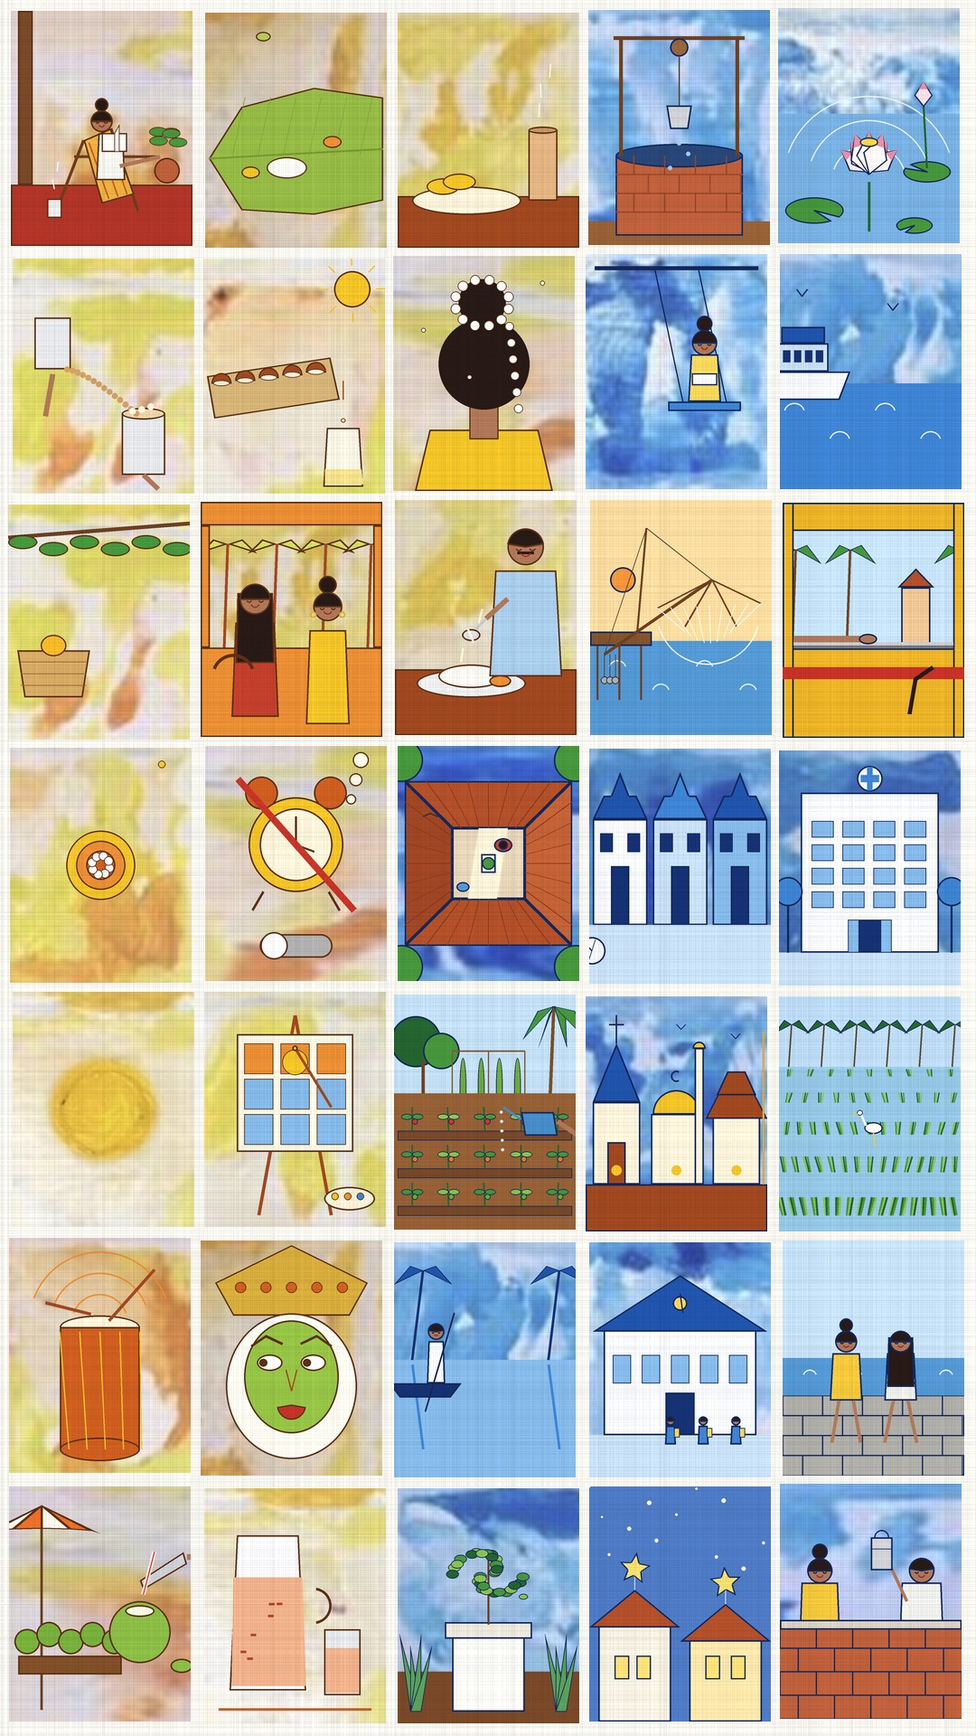
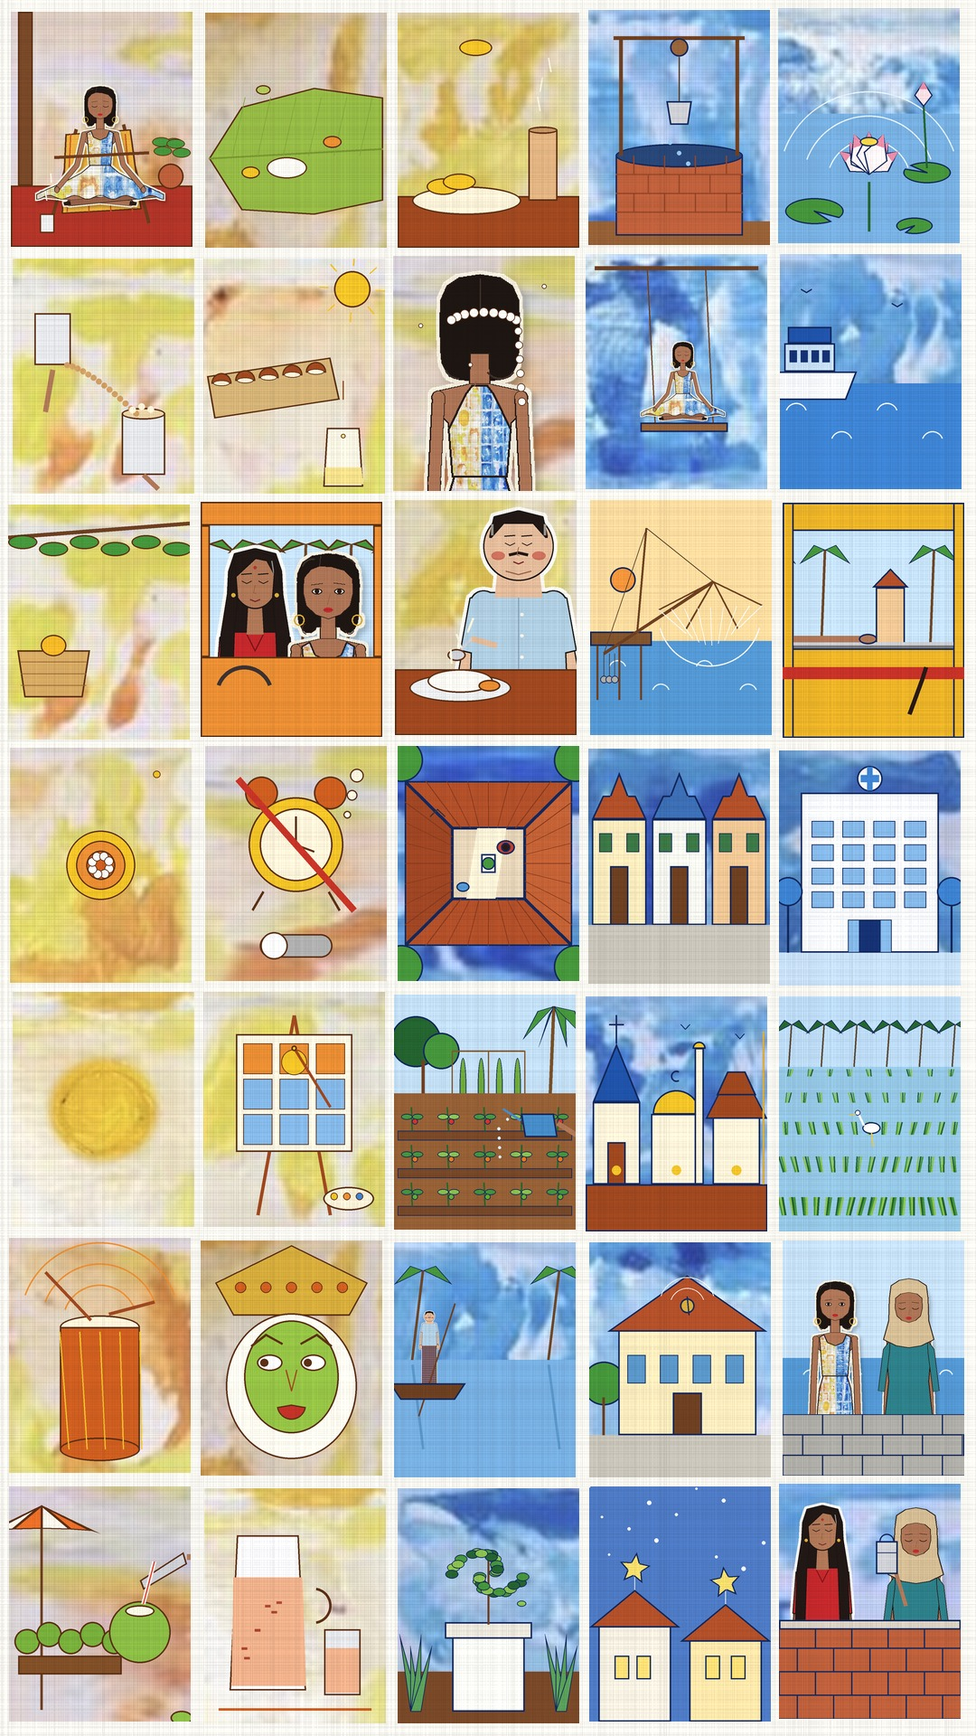
Reel 6: campaign cast in the boxes (approved Mum and Dad, girl with hair down in the Reel 6 racerback linen dress, friend)
Claude-Session: https://claude.ai/code/session_019PesBtHR7CKNsBgSZ5B6oT

diff --git a/reel6/boxwall.py b/reel6/boxwall.py
@@ -74,10 +74,24 @@ class C:
     def A(self, cx, cy, r, a0, a1, col=None, w=4):
         rr = r * BW
         self.d.arc((self.X(cx) - rr, self.Y(cy) - rr, self.X(cx) + rr, self.Y(cy) + rr), a0, a1, fill=col or self.o, width=max(1, int(w * K)))
+    def S(self, name, cx, bottom, height, top_frac=1.0, flip=False, dy_crop=0.0):
+        """Paste a cast sprite: `height` (box heights) is the shown part; top_frac keeps only the top of the figure."""
+        im = SPRITE(name)
+        if top_frac < 1: im = im.crop((0, 0, im.width, int(im.height * top_frac)))
+        sc = height * BH / im.height
+        im = im.resize((max(1, int(im.width * sc)), max(1, int(im.height * sc))), Image.LANCZOS)
+        if flip: im = im.transpose(Image.FLIP_LEFT_RIGHT)
+        self.img.alpha_composite(im, (int(self.X(cx) - im.width / 2), int(self.Y(bottom) - im.height)))
     def PIE(self, cx, cy, r, a0, a1, fill, w=4):
         rr = r * BW
         self.d.pieslice((self.X(cx) - rr, self.Y(cy) - rr, self.X(cx) + rr, self.Y(cy) + rr), a0, a1, fill=fill,
                         outline=self.o if w else None, width=max(1, int(w * K)))
+
+_SPR = {}
+def SPRITE(name):
+    if name not in _SPR: _SPR[name] = Image.open(os.path.join(HERE, "cast", name + ".png")).convert("RGBA")
+    return _SPR[name]
+DADSKIN = (228, 188, 156)
 
 def ease(x): x = min(max(x, 0.0), 1.0); return x * x * (3 - 2 * x)
 def fall(t, t0, y0, y1, dur=0.45):
@@ -110,36 +124,36 @@ def body(c, cx, top, wid, ht, col):
 # ================================================================== WARM boxes
 def v_mum_drive(c, t):
     p = c.p
+    c.R(0, 0, 1, 1, (200, 228, 250), 0)
     for i in range(6):  # palms rushing past
         x = (1.2 - ((t * 0.55 + i * 0.27) % 1.6))
-        c.L([(x, 0.62), (x + 0.02, 0.18)], p["rust"], 7)
-        for a in (-1, 1):
-            c.P([(x + 0.02, 0.18), (x + 0.02 + a * 0.16, 0.22), (x + 0.02 + a * 0.08, 0.16)], p["lime"])
-    c.P([(0, 0), (1, 0), (1, 0.1), (0, 0.1)], p["org"]); c.P([(0, 0.62), (1, 0.62), (1, 1), (0, 1)], p["org"])
-    c.R(0, 0.1, 0.05, 0.62, p["org"]); c.R(0.95, 0.1, 1, 0.62, p["org"])
-    bob = wob(t, 2.2, 0.006)
-    body(c, 0.3, 0.52 + bob, 0.26, 0.4, MUMKURTI); head(c, 0.3, 0.42 + bob, 0.085, "long")
-    body(c, 0.7, 0.54 - bob, 0.24, 0.4, p["yel"]); head(c, 0.7, 0.44 - bob, 0.08, "bun", hoops=True)
-    c.A(0.18, 0.74, 0.12, 200, 340, p["out"], 8)   # steering wheel
+        c.L([(x, 0.62), (x + 0.02, 0.18)], (110, 70, 40), 7)
+        for a in (-1, 1): c.P([(x + 0.02, 0.18), (x + 0.02 + a * 0.16, 0.22), (x + 0.02 + a * 0.08, 0.16)], GREEN)
+    bob = wob(t, 2.2, 0.004)
+    c.S("mum", 0.3, 0.98 + bob, 0.8, top_frac=0.36)
+    c.S("girl_open", 0.72, 0.98 - bob, 0.78, top_frac=0.34)
+    c.P([(0, 0), (1, 0), (1, 0.1), (0, 0.1)], p["org"]); c.P([(0, 0.66), (1, 0.66), (1, 1), (0, 1)], p["org"])
+    c.R(0, 0.1, 0.05, 0.66, p["org"]); c.R(0.95, 0.1, 1, 0.66, p["org"])
+    c.A(0.24, 0.82, 0.16, 200, 340, (60, 50, 50), 10)   # steering wheel
 
 def v_dad_serve(c, t):
     p = c.p
+    c.S("dad_laugh" if (t % 3) > 2.2 else "dad", 0.68, 0.98, 0.95, top_frac=0.42)
     c.R(0, 0.72, 1, 1, p["rust"])
-    c.E(0.42, 0.78, 0.3, 0.06, (236, 238, 240))  # steel plate
+    c.E(0.36, 0.8, 0.28, 0.06, (236, 238, 240))  # steel plate
     pile = min(t / 3.0, 1)
-    c.E(0.42, 0.77 - 0.02 * pile, 0.05 + 0.13 * pile, 0.015 + 0.035 * pile, (252, 250, 244))
-    if t > 3.2: c.E(0.58, 0.77, 0.06, 0.025, p["org"])
-    body(c, 0.72, 0.3, 0.4, 0.45, DADSHIRT); head(c, 0.72, 0.2, 0.1, "dad")
-    lx, ly = 0.5, 0.52 + wob(t, 1.1, 0.02)
-    c.L([(0.62, 0.42), (lx, ly)], SKIN, 12)
-    c.L([(lx, ly), (lx - 0.06, ly + 0.05)], (200, 200, 205), 6); c.E(lx - 0.08, ly + 0.07, 0.05, 0.025, (220, 222, 226))
+    c.E(0.36, 0.79 - 0.02 * pile, 0.05 + 0.13 * pile, 0.015 + 0.035 * pile, (252, 250, 244))
+    if t > 3.2: c.E(0.52, 0.79, 0.06, 0.025, p["org"])
+    lx, ly = 0.42, 0.58 + wob(t, 1.1, 0.02)
+    c.L([(0.56, 0.62), (lx, ly)], DADSKIN, 14)
+    c.L([(lx, ly), (lx - 0.06, ly + 0.05)], STEEL, 6); c.E(lx - 0.08, ly + 0.07, 0.05, 0.025, STEEL)
     if t < 3.0:
         for k in range(8):
-            yy = ((t * 1.6 + k * 0.125) % 1) * 0.14 + ly + 0.09
+            yy = ((t * 1.6 + k * 0.125) % 1) * 0.1 + ly + 0.09
             c.O(lx - 0.08 + 0.01 * math.sin(k * 3), yy, 0.008, (255, 255, 250), 0)
     for k in range(3):
-        s = (t * 0.4 + k / 3) % 1
-        c.L([(0.36 + k * 0.06 + wob(s, 1, 0.02), 0.7 - s * 0.25), (0.36 + k * 0.06 + wob(s, 1, 0.02, 2), 0.64 - s * 0.25)], p["cream"], 5)
+        s_ = (t * 0.4 + k / 3) % 1
+        c.L([(0.3 + k * 0.06 + wob(s_, 1, 0.02), 0.72 - s_ * 0.2), (0.3 + k * 0.06 + wob(s_, 1, 0.02, 2), 0.66 - s_ * 0.2)], p["cream"], 5)
 
 def v_easel(c, t):
     p = c.p
@@ -217,19 +231,16 @@ def v_coconut_oil(c, t):
 
 def v_jasmine(c, t):
     p = c.p
-    sw = wob(t, 0.5, 0.015)
-    c.P([(0.12, 1.0), (0.2, 0.74), (0.8, 0.74), (0.88, 1.0)], p["yel"])          # shoulders, from behind
-    c.R(0.42, 0.6, 0.58, 0.78, SKIN, 3)                                           # neck
-    c.O(0.5, 0.46, 0.25, HAIR, 0)                                                 # back of head
-    c.O(0.5 + sw, 0.2, 0.13, HAIR, 0)                                             # bun
-    for k in range(12):                                                           # jasmine ring round the bun
-        a = 2 * math.pi * k / 12 + t * 0.15
-        c.O(0.5 + sw + 0.15 * math.cos(a), 0.2 + 0.1 * math.sin(a), 0.028, (255, 255, 252), 2)
-    for k in range(6):                                                            # string falling to the shoulder
-        c.O(0.66 + sw * 2 + 0.01 * k, 0.3 + k * 0.07, 0.024, (255, 255, 252), 2)
+    sw = wob(t, 0.5, 0.01)
+    c.S("girl_back", 0.5 + sw, 1.05, 1.0, top_frac=0.34)
+    for k in range(9):                                                              # jasmine string pinned on her loose hair
+        a = math.pi * (0.15 + 0.7 * k / 8)
+        c.O(0.5 + sw + 0.2 * math.cos(a), 0.3 - 0.06 * math.sin(a), 0.026, (255, 255, 252), 2)
+    for k in range(6):
+        c.O(0.69 + sw * 1.5 + 0.004 * k, 0.32 + k * 0.06, 0.022, (255, 255, 252), 2)
     for k in range(3):
         s_ = (t * 0.25 + k / 3) % 1
-        c.O(0.15 + k * 0.32 + wob(s_, 1, 0.05), 0.05 + s_ * 0.6, 0.013, (255, 255, 252), 2)
+        c.O(0.15 + k * 0.32 + wob(s_, 1, 0.05), 0.05 + s_ * 0.5, 0.013, (255, 255, 252), 2)
 
 def v_pookalam(c, t):
     p = c.p
@@ -316,15 +327,13 @@ def v_herbal_water(c, t):
 
 def v_swing(c, t):
     p = c.p
-    c.L([(0.05, 0.06), (0.95, 0.06)], p["out"], 10)
-    a = 0.35 * math.sin(t * 1.5)
-    px, py, L = 0.5, 0.06, 0.58
-    sx, sy = px + L * math.sin(a) * BH / BW, py + L * math.cos(a)
-    for o in (-0.12, 0.12):
-        c.L([(px + o, py), (sx + o, sy)], p["out"], 3)
-    c.R(sx - 0.2, sy, sx + 0.2, sy + 0.04, p["mid"])
-    body(c, sx, sy - 0.2, 0.18, 0.2, (244, 214, 90)); head(c, sx, sy - 0.25, 0.07, "bun")
-    c.R(sx - 0.07, sy - 0.12, sx + 0.07, sy - 0.07, p["white"], 3)
+    c.L([(0.05, 0.06), (0.95, 0.06)], (110, 64, 34), 10)
+    a = 0.3 * math.sin(t * 1.5)
+    px, py, L = 0.5, 0.06, 0.66
+    sx, sy = px + L * math.sin(a) * BH / BW * 0.5, py + L * math.cos(a)
+    for o in (-0.16, 0.16): c.L([(px + o, py), (sx + o, sy)], (110, 64, 34), 3)
+    c.S("girl_seat", sx, sy + 0.01, 0.36)
+    c.R(sx - 0.24, sy, sx + 0.24, sy + 0.04, (150, 100, 60))
 
 def v_ferry(c, t):
     p = c.p
@@ -353,44 +362,45 @@ def v_hospital(c, t):
 
 def v_cycle(c, t):
     p = c.p
+    cols = [((250, 236, 190), TERRA), ((246, 246, 240), (60, 110, 180)), ((240, 200, 150), TERRA)]
     for i in range(3):
-        x0 = 0.02 + i * 0.33
-        c.R(x0, 0.3, x0 + 0.3, 0.75, (p["white"], p["pale"], p["sky"])[i])
-        c.P([(x0, 0.3), (x0 + 0.3, 0.3), (x0 + 0.24, 0.2), (x0 + 0.2, 0.2), (x0 + 0.15, 0.1), (x0 + 0.1, 0.2), (x0 + 0.06, 0.2)], (p["deep"], p["mid"], p["deep"])[i])
-        c.R(x0 + 0.1, 0.5, x0 + 0.2, 0.75, p["navy"]); c.R(x0 + 0.04, 0.36, x0 + 0.11, 0.44, p["navy"], 2); c.R(x0 + 0.19, 0.36, x0 + 0.26, 0.44, p["navy"], 2)
-    c.R(0, 0.75, 1, 1, p["pale"], 0)
-    x = -0.3 + ((t * 0.22) % 1.6)
-    for wx in (x, x + 0.22):
-        c.O(wx, 0.86, 0.075, p["wash"], 4)
-        a = t * 8
-        c.L([(wx - 0.06 * math.cos(a), 0.86 - 0.05 * math.sin(a)), (wx + 0.06 * math.cos(a), 0.86 + 0.05 * math.sin(a))], p["out"], 2)
-    c.L([(x, 0.86), (x + 0.1, 0.76), (x + 0.22, 0.86)], p["out"], 4)
-    body(c, x + 0.1, 0.58, 0.14, 0.18, (244, 214, 90)); head(c, x + 0.11, 0.53, 0.055, "bun")
+        x0 = 0.02 + i * 0.33; wall_, roof_ = cols[i]
+        c.R(x0, 0.3, x0 + 0.3, 0.75, wall_)
+        c.P([(x0, 0.3), (x0 + 0.3, 0.3), (x0 + 0.24, 0.2), (x0 + 0.2, 0.2), (x0 + 0.15, 0.1), (x0 + 0.1, 0.2), (x0 + 0.06, 0.2)], roof_)
+        c.R(x0 + 0.1, 0.5, x0 + 0.2, 0.75, (110, 64, 34)); c.R(x0 + 0.04, 0.36, x0 + 0.11, 0.44, (60, 120, 70), 2); c.R(x0 + 0.19, 0.36, x0 + 0.26, 0.44, (60, 120, 70), 2)
+    c.R(0, 0.75, 1, 1, (200, 196, 186), 0)
+    x = -0.3 + ((t * 0.18) % 1.6)
+    c.S("girl_open", x + 0.02, 0.96, 0.62)                                          # walking her bicycle
+    for wx in (x + 0.08, x + 0.32):
+        c.d.ellipse((c.X(wx) - 0.075 * BW, c.Y(0.88) - 0.075 * BW, c.X(wx) + 0.075 * BW, c.Y(0.88) + 0.075 * BW), outline=(40, 40, 40), width=int(5 * K))
+        a = t * 6
+        c.L([(wx - 0.06 * math.cos(a), 0.88 - 0.05 * math.sin(a)), (wx + 0.06 * math.cos(a), 0.88 + 0.05 * math.sin(a))], p["out"], 2)
+    c.L([(x + 0.08, 0.88), (x + 0.18, 0.8), (x + 0.32, 0.88)], (60, 110, 180), 5); c.L([(x + 0.18, 0.8), (x + 0.3, 0.78)], (60, 110, 180), 5)
 
 def v_canoe(c, t):
     p = c.p
-    c.R(0, 0.5, 1, 1, p["sky"], 0)
+    c.R(0, 0.5, 1, 1, (120, 176, 226), 0)
     for x in (0.1, 0.85):
-        c.L([(x, 0.5), (x + 0.06, 0.12)], p["navy"], 6); c.L([(x, 0.52), (x + 0.06, 0.88)], p["mid"], 6)
-        for a in (-1, 1): c.P([(x + 0.06, 0.12), (x + 0.06 + a * 0.16, 0.18), (x + 0.06 + a * 0.07, 0.1)], p["deep"], 2)
-    x = -0.3 + ((t * 0.13) % 1.6)
-    c.P([(x, 0.6), (x + 0.4, 0.6), (x + 0.34, 0.66), (x + 0.06, 0.66)], p["navy"])
-    body(c, x + 0.26, 0.42, 0.1, 0.18, p["white"]); head(c, x + 0.26, 0.38, 0.045, "short")
-    c.L([(x + 0.36, 0.3), (x + 0.2, 0.72)], p["out"], 4)
-    for k in range(3): c.A(x - 0.05 - k * 0.08, 0.66, 0.04, 200, 340, p["white"], 2)
+        c.L([(x, 0.5), (x + 0.06, 0.12)], (110, 70, 40), 6); c.L([(x, 0.52), (x + 0.06, 0.88)], (90, 150, 200), 6)
+        for a in (-1, 1): c.P([(x + 0.06, 0.12), (x + 0.06 + a * 0.16, 0.18), (x + 0.06 + a * 0.07, 0.1)], GREEN, 2)
+    x = -0.3 + ((t * 0.12) % 1.6)
+    c.S("dad", x + 0.22, 0.63, 0.34)                                                # Dad poling the canoe
+    c.L([(x + 0.36, 0.26), (x + 0.16, 0.74)], (110, 64, 34), 4)
+    c.P([(x, 0.6), (x + 0.42, 0.6), (x + 0.36, 0.67), (x + 0.06, 0.67)], (110, 64, 34))
+    for k in range(3): c.A(x - 0.05 - k * 0.08, 0.67, 0.04, 200, 340, (240, 248, 255), 2)
 
 def v_school(c, t):
     p = c.p
-    c.R(0, 0.82, 1, 1, p["pale"], 0)
-    c.R(0.08, 0.36, 0.92, 0.82, p["white"]); c.P([(0.02, 0.38), (0.98, 0.38), (0.5, 0.14)], p["deep"])
-    for i in range(5): c.R(0.13 + i * 0.16, 0.48, 0.23 + i * 0.16, 0.6, p["sky"], 2)
-    c.R(0.42, 0.64, 0.58, 0.82, p["navy"])
-    ring = abs(math.sin(t * 3)) * 15
-    c.O(0.5, 0.26, 0.04, (244, 214, 90)); c.L([(0.5, 0.22), (0.5 + ring / 400, 0.3)], p["out"], 3)
-    for k in range(3):
-        x = 1.1 - ((t * 0.15 + k * 0.18) % 0.75)
-        body(c, x, 0.78, 0.06, 0.08, p["mid"]); head(c, x, 0.76, 0.025, "short", smile=False)
-        c.R(x + 0.02, 0.79, x + 0.05, 0.83, (244, 214, 90), 2)
+    c.R(0, 0.82, 1, 1, (200, 196, 186), 0)
+    c.O(0.08, 0.6, 0.12, GREEN); c.L([(0.08, 0.82), (0.08, 0.66)], (110, 64, 34), 6)
+    c.R(0.16, 0.36, 0.92, 0.82, (250, 236, 190)); c.P([(0.1, 0.38), (0.98, 0.38), (0.54, 0.14)], TERRA)
+    for i in range(4): c.R(0.21 + i * 0.18, 0.48, 0.31 + i * 0.18, 0.6, (90, 150, 200), 2)
+    c.R(0.46, 0.64, 0.62, 0.82, (110, 64, 34))
+    ring = math.sin(t * 6) * 0.03
+    c.O(0.54, 0.27, 0.04, GOLDC); c.L([(0.54, 0.23), (0.54 + ring, 0.31)], p["out"], 3)
+    for k in range(2):
+        r = 0.07 + ((t * 0.8 + k * 0.5) % 1) * 0.12
+        c.A(0.54, 0.27, r, 200, 340, (250, 250, 250), 2)
 
 def v_stars(c, t):
     p = c.p
@@ -467,21 +477,17 @@ def v_verandah(c, t):
     p = c.p
     c.R(0, 0.74, 1, 1, (176, 52, 40))                                                # red-oxide floor
     c.R(0.04, 0.0, 0.12, 0.74, (120, 72, 40))                                       # pillar
-    c.O(0.86, 0.68, 0.07, LAT); 
-    for j in range(5): c.E(0.86 + 0.06 * math.cos(j * 1.3 + wob(t, 0.4, 0.2)), 0.56 - 0.05 * abs(math.sin(j)), 0.05, 0.02, GREEN, 2)
-    c.L([(0.25, 0.85), (0.4, 0.55)], (110, 60, 30), 7); c.L([(0.7, 0.85), (0.55, 0.5)], (110, 60, 30), 7)
-    c.L([(0.35, 0.62), (0.8, 0.62)], (110, 60, 30), 7)                               # chair arms
-    c.P([(0.4, 0.55), (0.55, 0.5), (0.68, 0.78), (0.5, 0.82)], (234, 176, 64))       # cloth sling
-    for j in range(3): c.L([(0.43 + j * 0.05, 0.56 - j * 0.015), (0.54 + j * 0.05, 0.8 - j * 0.01)], (200, 80, 40), 3)
-    body(c, 0.55, 0.52, 0.16, 0.2, (246, 246, 240)); head(c, 0.5, 0.47, 0.06, "bun")
-    c.L([(0.6, 0.66), (0.82, 0.62)], SKIN, 10)                                       # legs up on the arms
-    c.R(0.5, 0.52, 0.64, 0.6, (250, 250, 250), 3)                                    # book
-    fl = (t * 0.5) % 1
-    if fl < 0.4: c.P([(0.57, 0.52), (0.57 + 0.07 * math.cos(fl * 7.8), 0.52 - 0.04 * math.sin(fl * 7.8)), (0.57 + 0.07 * math.cos(fl * 7.8), 0.6), (0.57, 0.6)], (255, 255, 255), 2)
-    c.R(0.2, 0.8, 0.28, 0.88, (236, 236, 236), 3)
+    c.O(0.88, 0.7, 0.07, LAT)
+    for j in range(5): c.E(0.88 + 0.06 * math.cos(j * 1.3 + wob(t, 0.4, 0.2)), 0.6 - 0.05 * abs(math.sin(j)), 0.05, 0.02, GREEN, 2)
+    c.L([(0.22, 0.9), (0.36, 0.5)], (110, 60, 30), 8); c.L([(0.76, 0.9), (0.62, 0.48)], (110, 60, 30), 8)
+    c.P([(0.3, 0.52), (0.66, 0.5), (0.72, 0.84), (0.28, 0.86)], (234, 176, 64))       # cloth sling
+    for j in range(4): c.L([(0.33 + j * 0.1, 0.52), (0.31 + j * 0.12, 0.85)], (200, 80, 40), 3)
+    c.S("girl_seat", 0.5, 0.86 + wob(t, 0.3, 0.004), 0.55)
+    c.L([(0.24, 0.62), (0.76, 0.6)], (110, 60, 30), 8)                                # chair arms
+    c.R(0.16, 0.86, 0.24, 0.94, (236, 236, 236), 3)
     for j in range(2):
         s_ = (t * 0.5 + j / 2) % 1
-        c.L([(0.23 + j * 0.03 + wob(s_, 1.4, 0.01), 0.78 - s_ * 0.15), (0.23 + j * 0.03, 0.74 - s_ * 0.15)], (250, 250, 250), 3)
+        c.L([(0.19 + j * 0.03 + wob(s_, 1.4, 0.01), 0.84 - s_ * 0.15), (0.19 + j * 0.03, 0.8 - s_ * 0.15)], (250, 250, 250), 3)
 
 def v_mango(c, t):
     p = c.p
@@ -638,16 +644,14 @@ def v_well(c, t):
 
 def v_friends(c, t):
     p = c.p
-    c.R(0, 0, 1, 0.5, (200, 226, 248), 0); c.R(0, 0.5, 1, 0.68, WATER, 0)
+    c.R(0, 0, 1, 0.5, (200, 226, 248), 0); c.R(0, 0.5, 1, 0.75, WATER, 0)
     for k in range(4): c.A(0.15 + k * 0.25, 0.58, 0.04, 200, 340, (240, 248, 255), 3)
-    c.R(0, 0.66, 1, 1, STONE)
-    for r in range(4):
-        for k in range(5): c.R(k * 0.22 - (r % 2) * 0.11, 0.66 + r * 0.085, k * 0.22 - (r % 2) * 0.11 + 0.22, 0.66 + (r + 1) * 0.085, STONE, 2)
-    for i, (x, hair, col) in enumerate(((0.35, "bun", (244, 200, 60)), (0.65, "long", (240, 240, 236)))):
-        bob = abs(math.sin(t * 3 + i)) * 0.015 if (t % 2.5) < 1.2 else 0
-        body(c, x, 0.48 - bob, 0.18, 0.2, col); head(c, x, 0.43 - bob, 0.06, hair)
-        sw = wob(t, 0.9, 0.04, i)
-        c.L([(x - 0.04, 0.68), (x - 0.05 + sw, 0.86)], SKIN, 8); c.L([(x + 0.04, 0.68), (x + 0.05 - sw, 0.86)], SKIN, 8)
+    for i, (x, name) in enumerate(((0.3, "girl_open"), (0.7, "friend"))):
+        bob = abs(math.sin(t * 3 + i)) * 0.012 if (t % 2.5) < 1.2 else 0
+        c.S(name, x, 0.78 - bob, 0.62, top_frac=0.45)
+    c.R(0, 0.74, 1, 1, STONE)
+    for r in range(3):
+        for k in range(5): c.R(k * 0.22 - (r % 2) * 0.11, 0.74 + r * 0.087, k * 0.22 - (r % 2) * 0.11 + 0.22, 0.74 + (r + 1) * 0.087, STONE, 2)
 
 def v_bus(c, t):
     p = c.p
@@ -669,11 +673,11 @@ def v_bus(c, t):
 
 def v_neighbours(c, t):
     p = c.p
-    body(c, 0.22, 0.42, 0.24, 0.4, (244, 200, 60)); head(c, 0.22, 0.37, 0.07, "bun")
-    body(c, 0.78, 0.42, 0.26, 0.4, (240, 240, 236)); head(c, 0.78, 0.37, 0.07, "short")
+    c.S("mum", 0.24, 0.78, 0.7, top_frac=0.42)
+    c.S("friend", 0.76, 0.78, 0.68, top_frac=0.45)
     k = 0.5 - 0.5 * math.cos(t * 1.2)
-    x = 0.3 + 0.4 * k; y = 0.45 - 0.16 * math.sin(math.pi * k)
-    c.L([(0.3, 0.5), (x - 0.04, y + 0.03)], SKIN, 8) if k < 0.55 else c.L([(0.7, 0.5), (x + 0.04, y + 0.03)], SKIN, 8)
+    x = 0.32 + 0.36 * k; y = 0.42 - 0.14 * math.sin(math.pi * k)
+    c.L([(0.3, 0.52), (x - 0.04, y + 0.03)], SKIN, 9) if k < 0.55 else c.L([(0.7, 0.52), (x + 0.04, y + 0.03)], SKIN, 9)
     c.R(x - 0.06, y - 0.08, x + 0.06, y + 0.06, STEEL); c.L([(x - 0.06, y - 0.03), (x + 0.06, y - 0.03)], p["out"], 2)
     c.A(x, y - 0.08, 0.04, 180, 360, p["out"], 3)
     c.R(0, 0.6, 1, 1, LAT)                                                           # low laterite wall

diff --git a/reel6/cast.py b/reel6/cast.py
@@ -1,0 +1,87 @@
+"""Reel 6 cast sprites, taken from the approved campaign drawings so every character matches.
+- Mum and Dad: elder() from reel5/kochi.py (branch claude/fervent-carson-ftddqc), unchanged.
+- The girl: girl.py from reel3 (branch claude/hanta-campaign-video-q564qv), hair down (the straight bob),
+  dressed in the Reel 6 dress: fitted racerback tank mini dress, Sunset (2) print turned on its side
+  (sun half left, sea half right), rough linen.
+- Her friend: the same girl drawing with a headscarf and a long teal tunic.
+Usage: python3 cast.py <fervent worktree> <hanta worktree>   -> cast/*.png and cast/cast_sheet.jpg
+"""
+import os, sys, types
+import numpy as np
+from PIL import Image, ImageDraw
+
+HERE = os.path.dirname(os.path.abspath(__file__)); OUT = os.path.join(HERE, "cast")
+FERV, HANTA = sys.argv[1], sys.argv[2]
+
+def linen(img, k=0.16, seed=7):
+    w, h = img.size; r = np.random.default_rng(seed)
+    a = np.asarray(img).astype(np.float32) / 255
+    rows = r.normal(0, 1, (h, 1)); cols = r.normal(0, 1, (1, w))
+    slub = np.asarray(Image.fromarray((r.random((h // 6, w // 40)) * 255).astype(np.uint8)).resize((w, h), Image.BICUBIC)).astype(np.float32) / 255
+    weave = 0.5 * rows + 0.5 * cols + 1.4 * (slub - 0.5) * (r.random((h, 1)) > 0.7)
+    fine = (np.indices((h, w)).sum(0) % 4 < 2) * 0.5 - 0.25
+    a = a * (1 + k * np.tanh(weave)[..., None] + 0.06 * fine[..., None])
+    g = a.mean(2, keepdims=True); a = g + (a - g) * 0.9 + 0.02
+    return Image.fromarray((np.clip(a, 0, 1) * 255).astype(np.uint8))
+
+def dress_print():
+    p = Image.open(os.path.join(HERE, "sunset2.jpg")).convert("RGB").rotate(90, expand=True)   # sky to the left
+    p = p.crop((0, 0, 810, p.height))                     # sun half and sea half about equal, like the dress photo
+    return linen(p.resize((560, 1400), Image.LANCZOS))    # narrow, so the whole width wraps the fitted dress
+
+def girl6():
+    src = open(os.path.join(HANTA, "reel3", "girl.py")).read()
+    src = src.replace('A = os.path.join(os.path.dirname(os.path.abspath(__file__)), "assets")', 'A = %r' % os.path.join(HANTA, "reel3", "assets"))
+    src = src.replace("for x in ((-150, -95, -45, 0, 45, 95, 150) if coat != \"on\" else ()):", "for x in ():")
+    src = src.replace("f.p(sx * 20, 560), f.p(sx * 19, 760)", "f.p(sx * 21, 500), f.p(sx * 19, 760)")
+    # front: scoop-neck tank with wide straps instead of the sweetheart top
+    src = src.replace("top_poly = [(-40, 292), (40, 292), (44, 200), (32, 186), (16, 186), (0, 200), (-16, 186), (-32, 186), (-44, 200)]",
+                      "top_poly = [(-40, 292), (40, 292), (46, 214), (50, 170), (34, 162), (24, 186), (0, 196), (-24, 186), (-34, 162), (-50, 170), (-46, 214)]")
+    src = src.replace("d.line(f.pl([(sx * 34, 188), (sx * 44, 164)]), fill=LINE, width=f.w(2.5))  # thin straps", "pass")
+    # back: racerback
+    src = src.replace("top_poly = [(-40, 292), (40, 292), (44, 226), (-44, 226)]\n        _tex(fig, PLAIN, f.pl(top_poly))",
+                      "top_poly = [(-40, 292), (40, 292), (46, 222), (22, 172), (12, 158), (-12, 158), (-22, 172), (-46, 222)]\n        _tex(fig, SKIRT, f.pl(top_poly))")
+    src = src.replace("d.line(f.pl([(-36, 228), (44, 166)]), fill=LINE, width=f.w(2.5))", "pass")
+    src = src.replace("d.line(f.pl([(36, 228), (-44, 166)]), fill=LINE, width=f.w(2.5))", "pass")
+    src = src.replace('''def _skirt_poly():
+    right = [(37, 290), (62, 330), (98, 392), (136, 462), (166, 520), (182, 556)]
+    return [(-37, 290)] + right + _wavy_hem(566, 182) + [(-x, y) for x, y in right[::-1]]''', '''def _skirt_poly():
+    right = [(38, 290), (50, 330), (56, 400), (56, 470), (54, 524)]
+    return [(-38, 290)] + right + [(-x, y) for x, y in right[::-1]]''')
+    m = types.ModuleType("girl6"); m.__file__ = os.path.join(HANTA, "reel3", "girl.py")
+    exec(compile(src, "girl6", "exec"), m.__dict__)
+    pr = dress_print()
+    m.SKIRT = pr; m.SPRING = pr.resize((pr.width, pr.height // 3), Image.LANCZOS)
+    return m
+
+def save(L, name): L.crop(L.getbbox()).save(os.path.join(OUT, name))
+
+if __name__ == "__main__":
+    os.makedirs(OUT, exist_ok=True)
+    g = girl6()
+    for name, kw in (("girl_front.png", dict(view="front")), ("girl_open.png", dict(view="front", eyes="open")),
+                     ("girl_back.png", dict(view="back")), ("girl_seat.png", dict(view="front", pose="seat", arms="knees"))):
+        L = Image.new("RGBA", (700, 1200), (0, 0, 0, 0)); g.draw(L, 350, 60, 1050, **kw); save(L, name)
+    L = Image.new("RGBA", (700, 1200), (0, 0, 0, 0)); f = g.draw(L, 350, 60, 1050, view="front", earrings=False)
+    d = ImageDraw.Draw(L); LINE = g.LINE; TEAL = (46, 128, 138)
+    for sx in (-1, 1): g._limb(d, [f.p(sx * 21, 560), f.p(sx * 19, 760), f.p(sx * 17, 930)], f.w(26), (240, 236, 226), f)
+    d.polygon(f.pl([(-54, 164), (54, 164), (72, 200), (64, 300), (96, 600), (-96, 600), (-64, 300), (-72, 200)]), fill=TEAL, outline=LINE, width=f.w(2.5))
+    for sx in (-1, 1): d.polygon(f.pl([(sx * 58, 170), (sx * 80, 200), (sx * 96, 330), (sx * 76, 334), (sx * 60, 210)]), fill=TEAL, outline=LINE, width=f.w(2))
+    d.polygon(f.pl([(-62, 40), (-56, 0), (-30, -16), (0, -22), (30, -16), (56, 0), (62, 40), (64, 110), (80, 170), (40, 190), (0, 196), (-40, 190), (-80, 170), (-64, 110)]),
+              fill=(214, 190, 150), outline=LINE, width=f.w(2.5))
+    d.polygon(f.pl([(-42, 40), (-43, 72), (-38, 96), (-23, 110), (0, 117), (23, 110), (38, 96), (43, 72), (42, 40), (26, 26), (0, 22), (-26, 26)]), fill=g.SKIN, outline=LINE, width=f.w(2))
+    for sx in (-1, 1):
+        d.arc([*f.p(sx * 21 - 11, 62), *f.p(sx * 21 + 11, 76)], 20, 160, fill=LINE, width=f.w(2))
+        d.line(f.pl([(sx * 31, 56), (sx * 11, 53)]), fill=LINE, width=f.w(2))
+    d.line(f.pl([(3, 74), (-1, 92)]), fill=g.SKIN_SH, width=f.w(2)); d.ellipse([*f.p(-9, 99), *f.p(9, 107)], fill=g.LIP)
+    save(L, "friend.png")
+    cwd = os.getcwd(); os.chdir(os.path.join(FERV, "reel5")); sys.path.insert(0, os.getcwd())
+    import kochi
+    kochi.elder("mum").save(os.path.join(OUT, "mum.png")); kochi.elder("dad").save(os.path.join(OUT, "dad.png"))
+    kochi.elder("dad", laugh=True).save(os.path.join(OUT, "dad_laugh.png")); os.chdir(cwd)
+    names = ["girl_front", "girl_back", "girl_seat", "friend", "mum", "dad", "dad_laugh"]
+    ims = [Image.open(os.path.join(OUT, n + ".png")) for n in names]; h = 600
+    ims = [i.resize((int(i.width * h / i.height), h), Image.LANCZOS) for i in ims]
+    s = Image.new("RGB", (sum(i.width for i in ims) + 20 * (len(ims) + 1), h + 40), (240, 236, 228)); x = 20
+    for i in ims: s.paste(i, (x, 20), i); x += i.width + 20
+    s.save(os.path.join(OUT, "cast_sheet.jpg"), quality=90)
